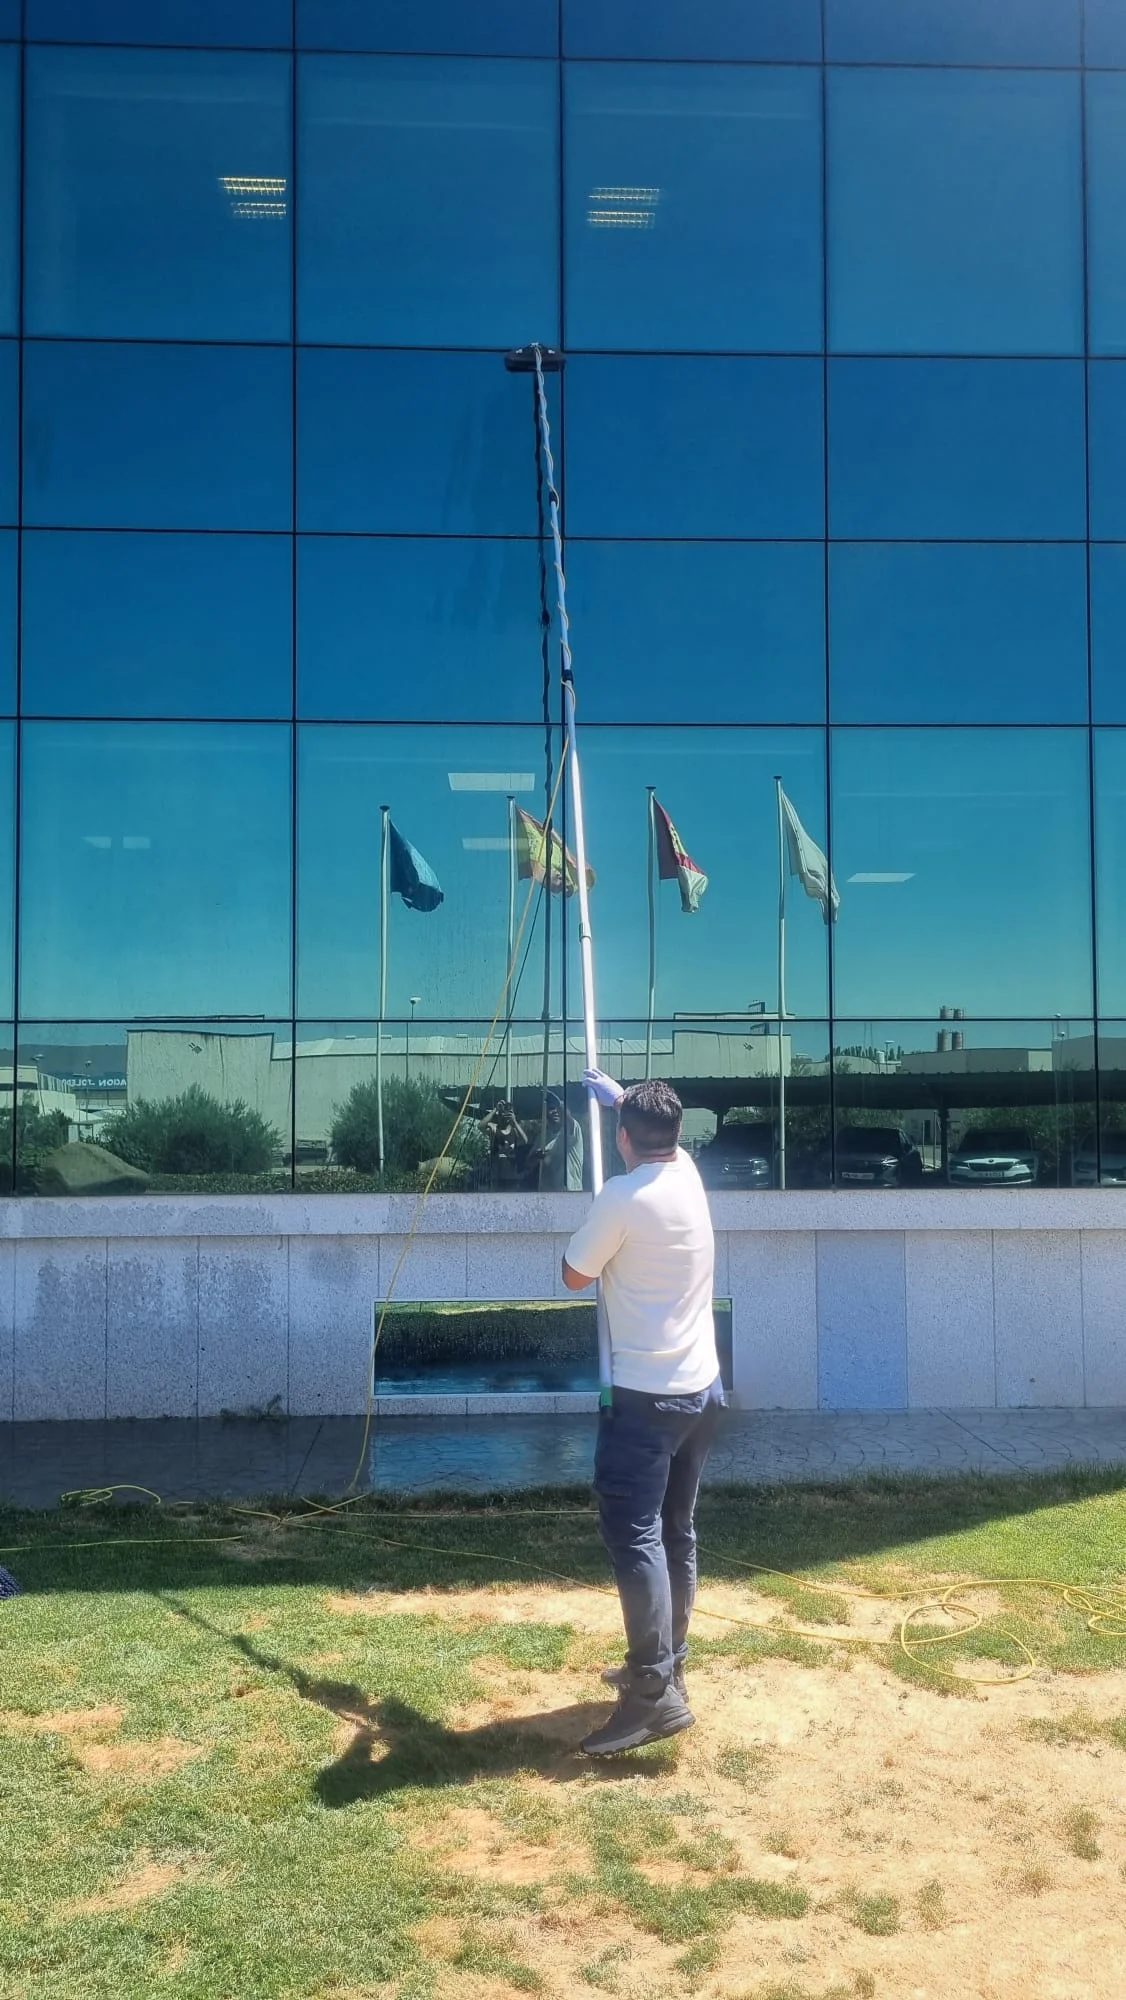
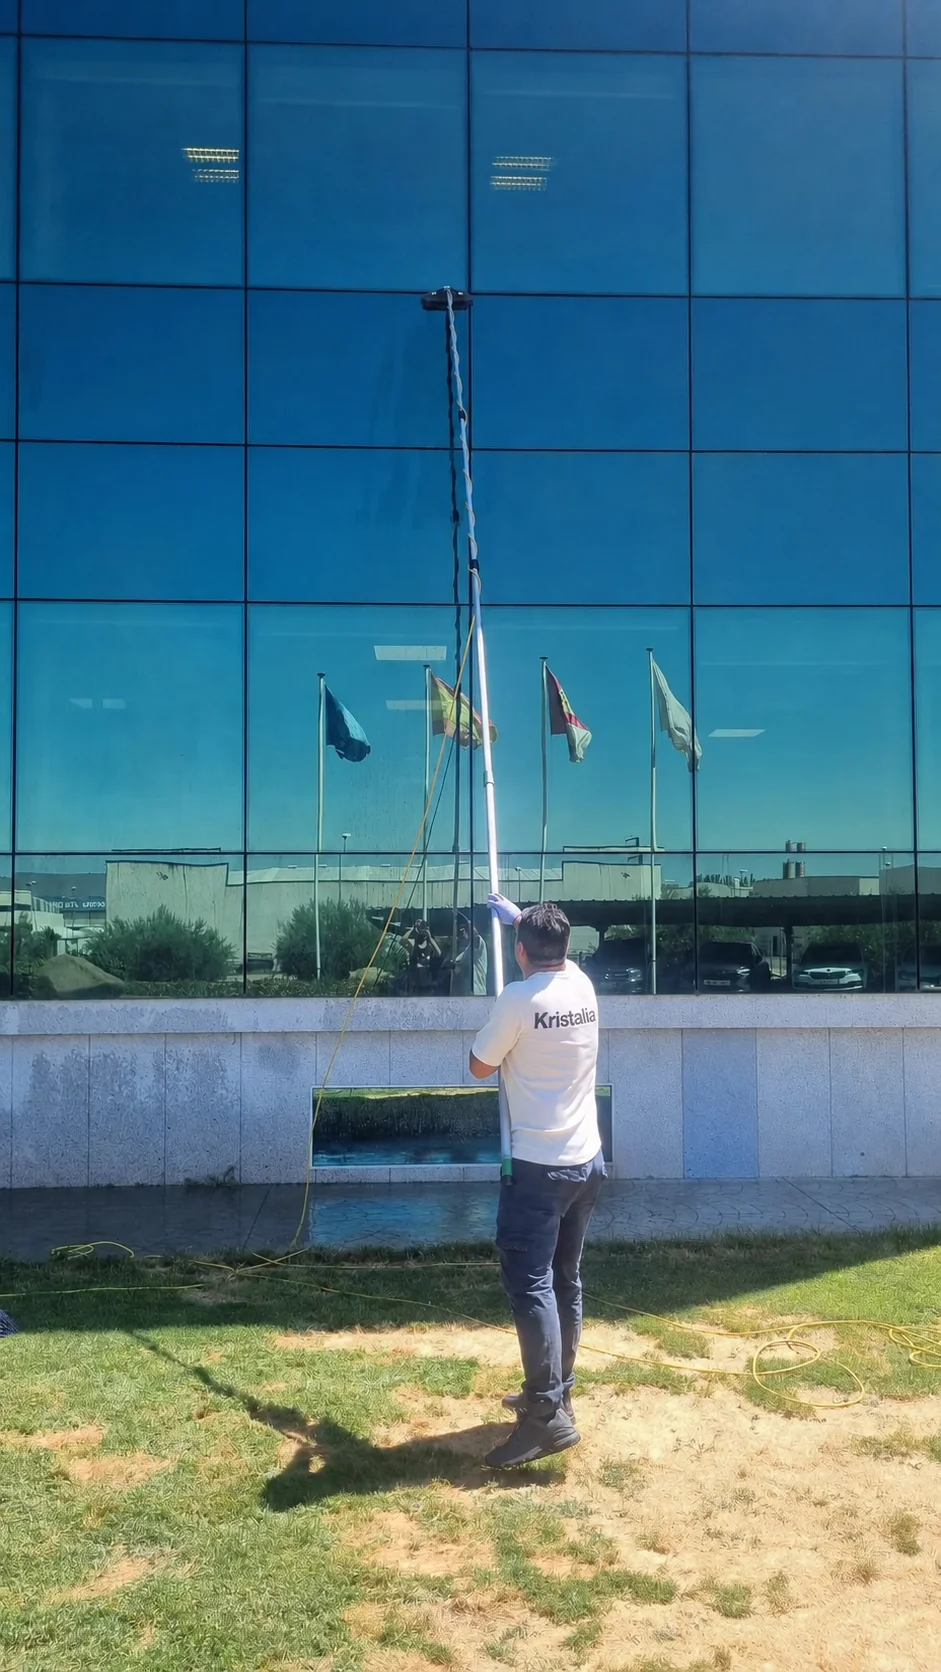
patch: hero image

diff --git a/src/components/home/Hero.css b/src/components/home/Hero.css
@@ -28,13 +28,11 @@
 }
 
 .hero__text {
-  max-width: 720px;
+  max-width: 980px;
 }
 
 .hero__tag {
-  display: inline-block;
-  font-family: var(--font-body);
-  font-size: 0.72rem;
+  font-size: 1rem;
   font-weight: 600;
   letter-spacing: 0.14em;
   text-transform: uppercase;
@@ -50,7 +48,7 @@
   left: 0;
   top: 50%;
   transform: translateY(-50%);
-  width: 1.25rem;
+  width: 1.5rem;
   height: 1px;
   background: var(--color-accent);
 }
@@ -64,26 +62,36 @@
   text-shadow: 0 2px 24px rgba(0, 0, 0, 0.25);
 }
 
+.hero__title span {
+  display: block;
+}
+
+.hero__title span + span {
+  margin-top: 0.12em;
+}
+
 .hero__subtitle {
   max-width: 680px;
   font-size: clamp(1rem, 1.5vw, 1.2rem);
   color: rgba(255, 255, 255, 0.88);
   line-height: 1.65;
-  margin-bottom: 2.75rem;
+  margin-bottom: 2.25rem;
   font-weight: 400;
 }
 
 .hero__actions {
   display: flex;
   align-items: center;
+  justify-content: flex-start;
 }
+
 
 .hero__actions--single {
   justify-content: center;
   max-width: 680px;
 }
 
-.hero__services-btn {
+.hero__services-btn { 
   min-width: 280px;
   padding: 1.1rem 3.2rem;
   font-size: 1.02rem;
@@ -144,22 +152,31 @@
   }
 
   .hero__title {
-    font-size: clamp(2rem, 8vw, 3rem);
+    font-size: clamp(2.2rem, 8vw, 3rem);
+    line-height: 1.08;
+  }
+
+  .hero__title span {
+    display: inline;
+  }
+
+  .hero__title span + span::before {
+    content: ' ';
+  }
+
+  .hero__title span + span {
+    margin-top: 0;
   }
 
   .hero__subtitle {
     font-size: 1rem;
   }
 
-  .hero__actions--single {
-    justify-content: flex-start;
-  }
-
   .hero__services-btn {
     width: 100%;
     max-width: 320px;
   }
-}
+} 
 
 @media (max-width: 480px) {
   .hero {

diff --git a/src/components/home/Hero.jsx b/src/components/home/Hero.jsx
@@ -1,5 +1,5 @@
 import Button from '../ui/Button';
-import heroImg from '../../assets/cristales/cristaleraa.webp';
+import heroImg from '../../assets/cristales/kristalia.png';
 import './Hero.css';
 
 export default function Hero() {
@@ -19,17 +19,20 @@ export default function Hero() {
 
       <div className="hero__content container">
         <div className="hero__text">
-          <span className="hero__tag">Limpieza especializada en cristales</span>
+          <span className="hero__tag">
+            Limpieza especializada en cristales
+          </span>
 
           <h1 className="hero__title">
-            Cristales impecables para empresas, comunidades y particulares.
+            <span>Limpieza profesional de cristales en Madrid.</span>
+            <span>Presupuesto sin compromiso.</span>
           </h1>
 
           <p className="hero__subtitle">
-            Servicio rápido, seguro y adaptado a cada espacio. Presupuesto sin compromiso.
+            Disponibilidad inmediata en toda la Comunidad de Madrid.
           </p>
 
-          <div className="hero__actions hero__actions--single">
+          <div className="hero__actions">
             <Button
               variant="outline-light"
               size="lg"
